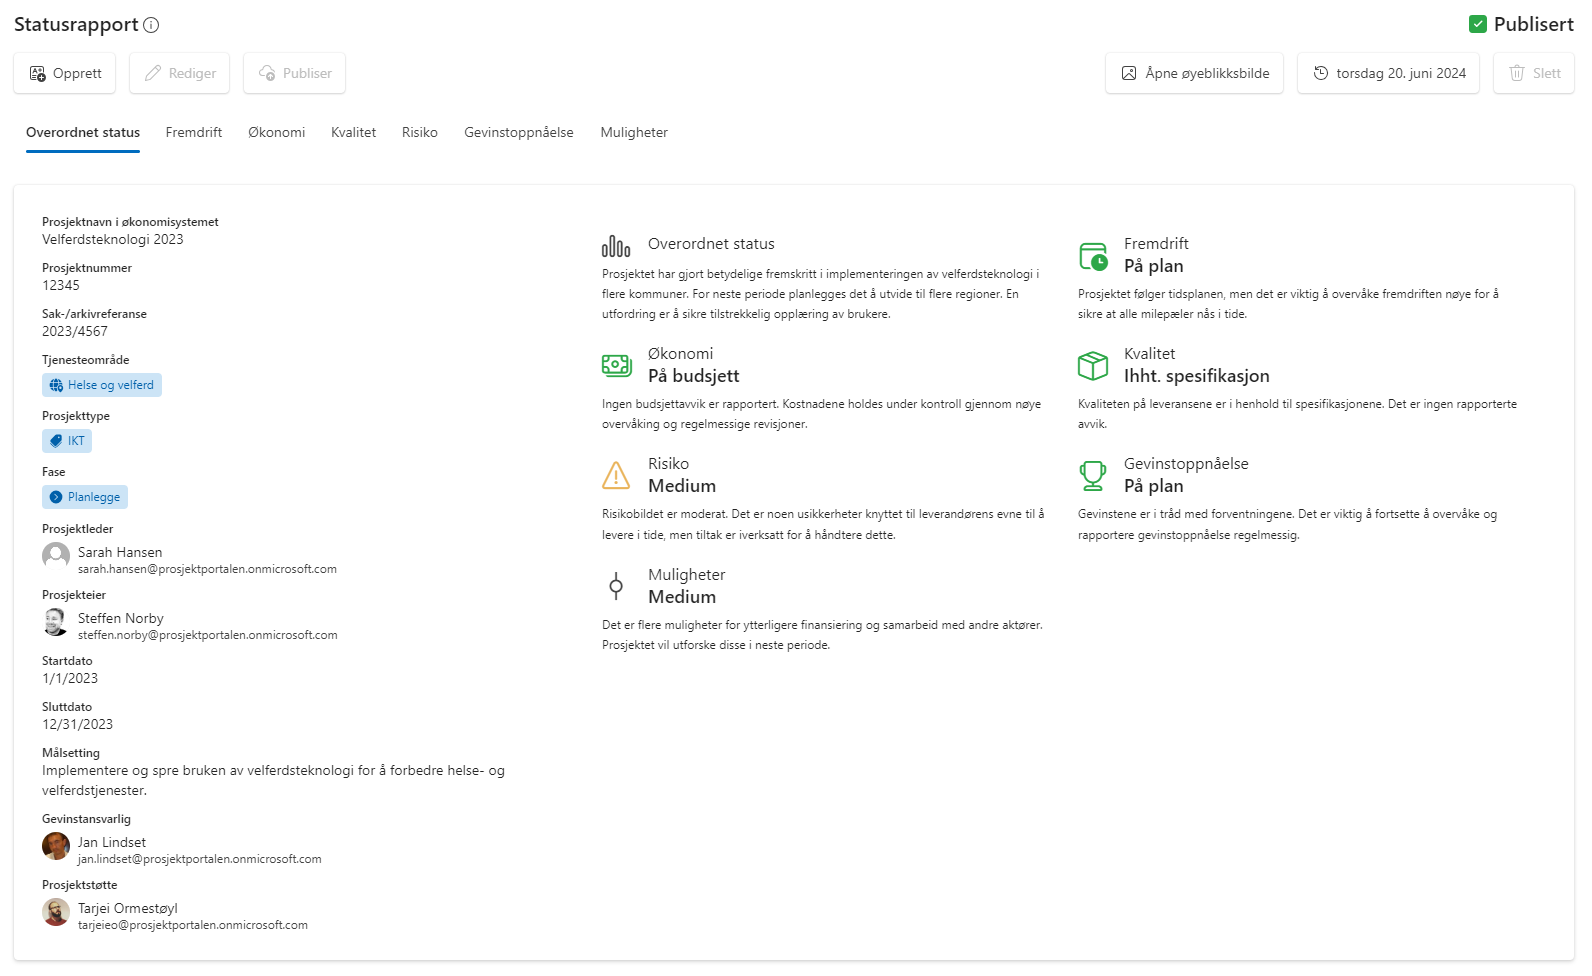
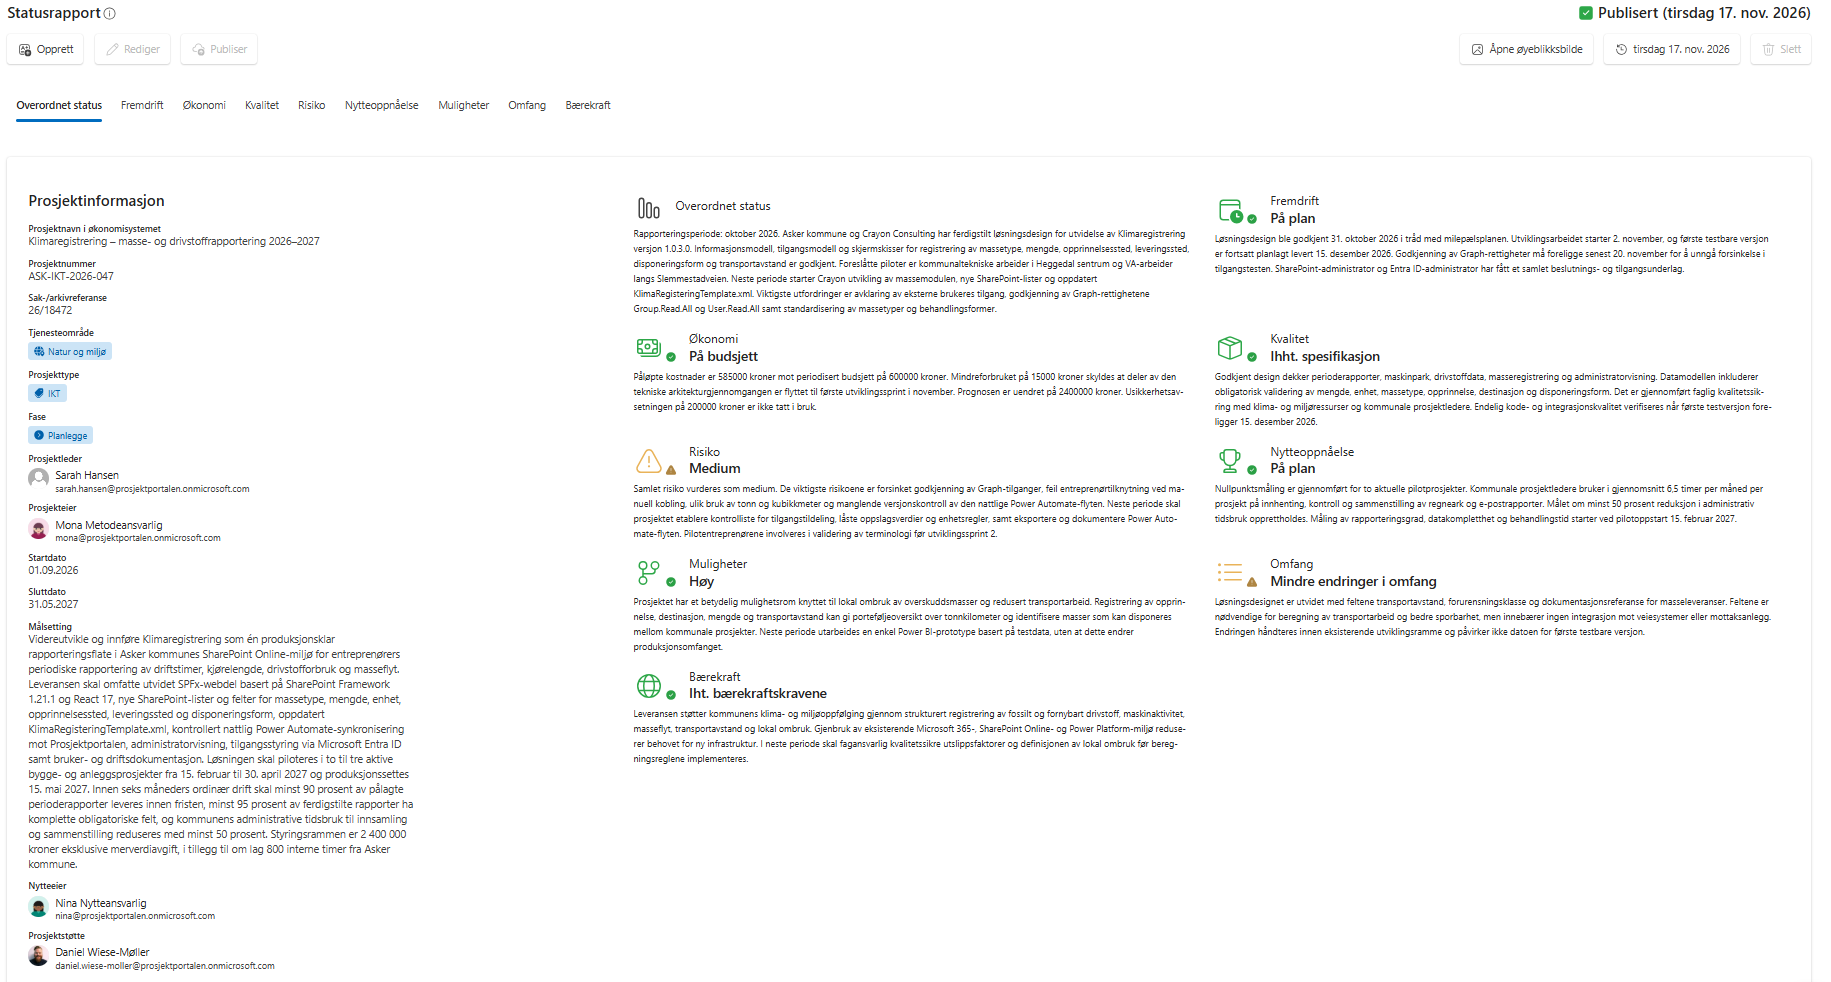
Update project status screenshots

diff --git a/Brukermanual/4 Prosjekt/4.2-Prosjektstatus.md b/Brukermanual/4 Prosjekt/4.2-Prosjektstatus.md
@@ -37,7 +37,6 @@ Den ordinære statusrapporteringen for prosjektet ligger i **hovedrapporteringen
 5. Velg **Publiser** når rapporten er ferdig.
 
 Tidligere statusrapporter vises for rapporteringsserien du har valgt.
-NYTT SKJERMBILDE
 
 ## Opprette en statusrapport
 
@@ -91,7 +90,14 @@ Når rapporten publiseres, blir den skrivebeskyttet, og informasjon fra rapporte
 
 Det er den siste publiserte statusrapporten som brukes til å vise gjeldende prosjektstatus på porteføljenivå.
 
-![](./media/4.2-Prosjektstatus-Redigere-Publisere.png) 
+Bildet viser hvor du redigerer og publiserer rapporten, velger statusområde og finner rapporten for en bestemt dato:
+
+1. **Rediger** åpner rapporten for endringer.
+2. **Publiser** gjør rapporten tilgjengelig som publisert status.
+3. Fanene viser de ulike statusområdene.
+4. Datovelgeren lar deg åpne en statusrapport fra en bestemt dato.
+
+![Statusrapport med markering av redigering, publisering, statusområder og rapportdato](./media/4.2-Prosjektstatus-Redigere-Publisere.png)
 
 Tidligere statusrapporter finner du i rapportvelgeren på statussiden.
 
@@ -104,7 +110,7 @@ Når du åpner Prosjektstatus fra prosjektets navigasjon, vises den valgte statu
 
 Rapporten kombinerer informasjon som er registrert direkte i statusrapporten, med relevant informasjon som hentes fra prosjektet.
 
-![](./media/4.2-Prosjektstatus-Visning.png)
+![Statusrapport i visningsmodus](./media/4.2-Prosjektstatus-Visning.png)
 
 
 
